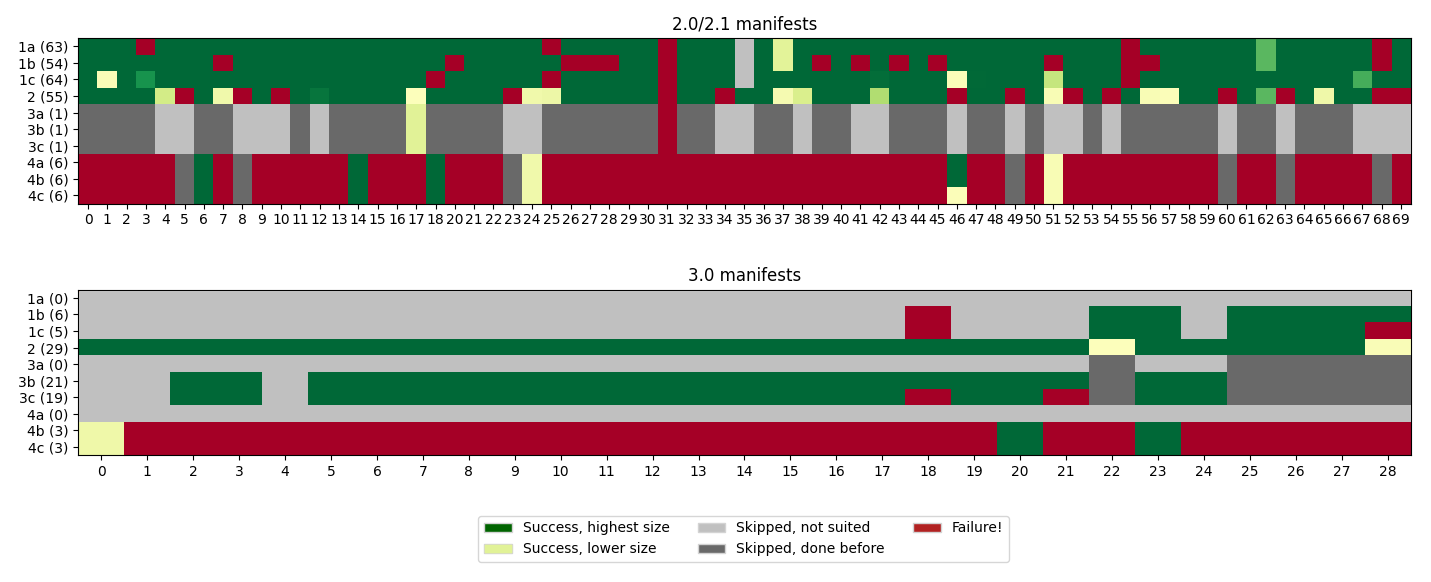
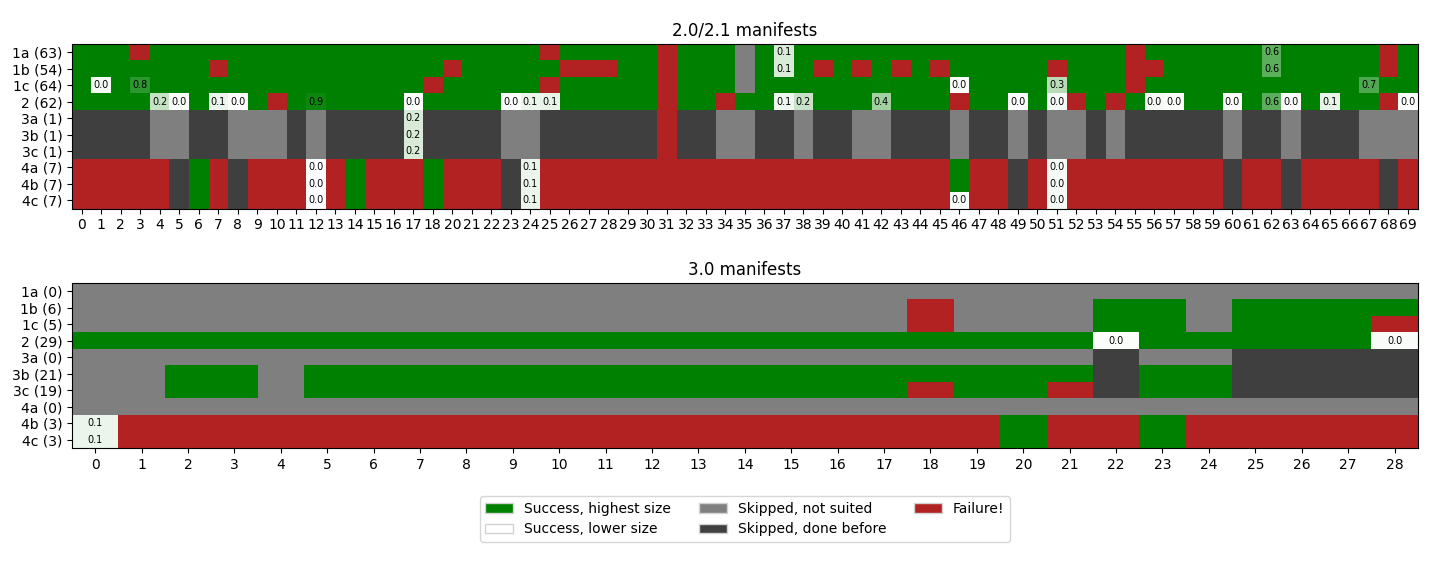
Updated Appendix.md with last results

diff --git a/Appendix.md b/Appendix.md
@@ -4,22 +4,26 @@ The images of the document can be obtained at different URIs, it depends on how 
 
 Since different URIs must be tested, a priority scale has been defined. The working strategy is defined once at the beginning, while attempting to download the first page with different URIs. We assume that all the document images behave in the same way so that, if it worked for the first page, it will work for all, without the need of trying different strategies for all the pages. If the download is not successful at level N, level N+1 is attempted, if it is successful at level N, levels > N are not attempted and level N is defined as the strategy to use for all the pages of the document.
 
-Ten levels have been defined and they can be grouped in 4 categories. In the following list a "formatted URI" is defined as a URI formatted as the template given in the IIIF standards, with rotation = 0 and quality = 'default'.
-- 1a. Formatted URI, base = service ID, size = 'full'
-- 1b. Formatted URI, base = service ID, size = 'max'
-- 1c. Formatted URI, base = service ID, size = width,
+Ten levels have been defined and they can be grouped in 4 categories. In the following list a "formatted URI" is defined as a URI formatted as the template given in the IIIF standards[^1] with rotation = `0` and quality = `default`.
+- 1a. Formatted URI, base = service ID, size = `full`
+- 1b. Formatted URI, base = service ID, size = `max`
+- 1c. Formatted URI, base = service ID, size = `<width>,`
 - 2\. URI defined in image ID
-- 3a. Formatted URI, base = base(image ID), size = 'full'
-- 3b. Formatted URI, base = base(image ID), size = 'max'
-- 3c. Formatted URI, base = base(image ID), size = width,
-- 4a. Formatted URI, base = image ID, size = 'full'
-- 4b. Formatted URI, base = image ID, size = 'max'
-- 4c. Formatted URI, base = image ID, size = width,
+- 3a. Formatted URI, base = base(image ID), size = `full`
+- 3b. Formatted URI, base = base(image ID), size = `max`
+- 3c. Formatted URI, base = base(image ID), size = `<width>,`
+- 4a. Formatted URI, base = image ID, size = `full`
+- 4b. Formatted URI, base = image ID, size = `max`
+- 4c. Formatted URI, base = image ID, size = `<width>,`
 
 Strategies 1a, 1b, and 1c are not attempted if a service ID is not defined in the manifest. It is unlikely, but it may happen since the standards don't define it as mandatory. Strategy 2 is the only one that is valid for all manifests. The image to download is searched at the URI defined in the image ID field, it may be formatted as the template or not. Strategies 3a, 3b, and 3c are attempted only if the image ID is formatted as the URI template, so that a base can be extracted and three new URIs can be created. If the base of the image ID is equal to the service ID these strategies are not attempted, since we would repeat the same (unsuccessful) procedures of the first three levels. For the same reason strategies 4a, 4b, and 4c are attempted only if the service ID and the image ID are different.
 
-The order of the strategies has been set in order to obtain the highest available quality, arguably in the fastest possible time. It is the result of a statistical analysis carried out on the manifests of the Testing directory. An URI with size = 'full' should return the highest resolution, however the direct access to that resource may be denied. An URI with size = 'max' should return the image at the maximum available size. size = 'full' is not compliant with the 3.0 API, while size = 'max' is not compliant with the 2.0 API (but it is with the 2.1 API). An URI with size = width, (please note the comma) is attempted when the other two fail, it should return the image at the width defined in the manifest (the height is calculated to maintain the aspect ratio of the image). The defined width may be smaller than in the original file, but sometimes this is the only way to obtain an image. If in the manifest a width that is higher than in original file has been defined, choosing this URI we end up downloading an unnecessarely enlarged file, but this eventuality is very unlikely and in our analysis it happened for manifests for which size = full already returned the image.
+The order of the strategies has been set in order to obtain the highest available quality, arguably in the fastest possible time. It is the result of a statistical analysis carried out on the manifests of the Testing directory. An URI with size = `full` should return the highest resolution, however the direct access to that resource may be denied. An URI with size = `max` should return the image at the maximum available size. size = `full` is not compliant with the 3.0 API, while size = `max` is not compliant with the 2.0 API (but it is with the 2.1 API). An URI with size = `<width>,` (please note the comma) is attempted when the other two fail, it should return the image at the width defined in the manifest (the height is calculated to maintain the aspect ratio of the image). The defined width may be smaller than in the original file, but sometimes this is the only way to obtain an image. If in the manifest a width that is higher than in original file has been defined, choosing this URI we end up downloading an unnecessarely enlarged file, but this eventuality is very unlikely and in our analysis it happened for manifests for which size = `full` already returned the image.
 
 ![The analysis](stats.png)
 
-In the plots all the compliant URIs have been downloaded, however in reality we stop at the first successful one. Manifest 19 of the 2.0/2.1 plot has been removed from the analysis because the whole site was not available at the time of the experiments. Gray cells represent URIs that were not attempted, because the manifest definition of the page was not compliant with that URI (light gray) or because we would have repeated something made before (dark gray). Green cells represent cases that have been attempted and the downloads have been successful. The darkest green represent the image at the highest available size, while the lighter greens represent smaller images (the colors are scaled proportionally between white and the darkest green). For the 37th and the 62nd manifests of the 2.0/2.1 plot, the third attempt returned an image that was bigger than the previous two: these are enlarged files, with no added quality, and it would be correct to miss them downloading just the size = 'full' image. Red cells represent cases that are suitable for download but did not return an image, either because the access to the resource was denied or because there was no resource at all. As it can be seen from the plot, the correct strategy is found immediately for most of the manifests, sometimes two attempts are needed, one time 3 and one time 4. For the 31st manifest of the 2.0/2.1 set it has not been possibile to download the images, even trying 10 different strategies.
+Gray cells represent URIs that were not attempted, because the manifest definition of the page was not compliant with that URI (light gray) or because we would have repeated something made before (dark gray). Green cells represent cases that have been attempted and the downloads have been successful. The darkest green represent the image at the highest available size, while the lighter greens represent smaller images (colors are scaled proportionally, for the smaller images the size ratios have been written). Red cells represent cases that are suitable for download but did not return an image, either because the access to the resource was denied or because there was no resource at all. In the plots all the compliant URIs have been downloaded, however in reality we stop at the first successful one.
+
+As it can be seen from the plot, the correct strategy is found immediately for most of the manifests. In two cases 2 attempts were needed (2.0 n.3 and n.25), in two cases 3 (2.0 n.68 and 3.0 n.18) and in one case 4 (2.0 n.55). Manifest 19 of the 2.0/2.1 plot has been removed from the analysis because the whole site was not available at the time of the experiments. For manifests 37 and 62, the third attempt returned an image that was bigger than the previous two: these are enlarged files, with no added quality, and it would be correct to miss them downloading just the size = `full` image. For manifest 31 it has not been possibile to download the images, even trying 10 different strategies (this use case is under investigation).
+
+[^1]: `https://[...]/region/size/rotation/quality.format`, see [Image API 3.0 - Image Request URI Syntax](https://iiif.io/api/image/3.0/#21-image-request-uri-syntax).

diff --git a/README.md b/README.md
@@ -3,7 +3,7 @@ A Python 3 script to download all the images from an IIIF manifest.
 
 IIIF is the [International Image Interoperability Framework](https://iiif.io/), a set of open standards for digital objects online. Most of the Python scripts out there ask you to install plenty of heavy external libraries. This script needs only standard libraries! It is compliant with the [2.0](https://iiif.io/api/presentation/2.0), the [2.1](https://iiif.io/api/presentation/2.1), and the [3.0](https://iiif.io/api/presentation/3.0) standards.
 
-[![Python](https://img.shields.io/badge/python-3.11-blue)](https://www.python.org/) [![License](https://img.shields.io/badge/license-MIT-blue)](https://opensource.org/license/MIT) [![Tests status](https://github.com/ClaudioMartino/IIIF-Downloader/actions/workflows/tests.yml/badge.svg)](https://github.com/ClaudioMartino/IIIF-Downloader/actions)
+[![Python](https://img.shields.io/badge/python-3.10-blue)](https://www.python.org/) [![License](https://img.shields.io/badge/license-MIT-blue)](https://opensource.org/license/MIT) [![Tests status](https://github.com/ClaudioMartino/IIIF-Downloader/actions/workflows/tests.yml/badge.svg)](https://github.com/ClaudioMartino/IIIF-Downloader/actions)
 
 ## Basic usage
 
